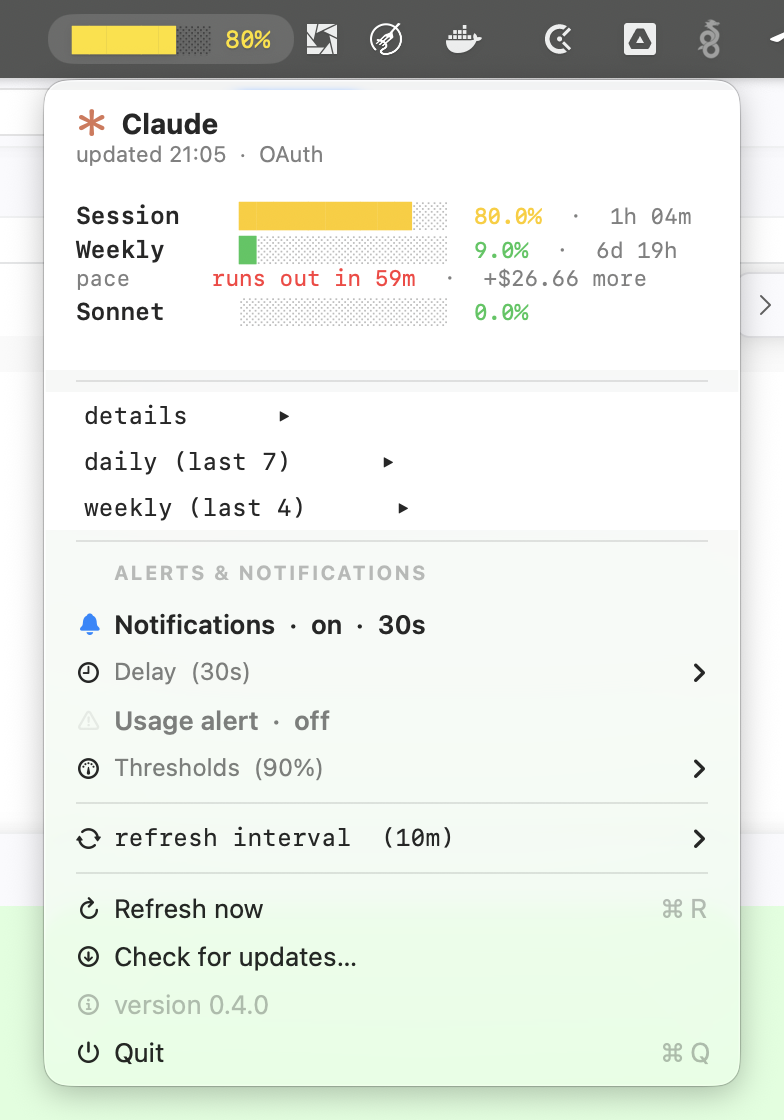
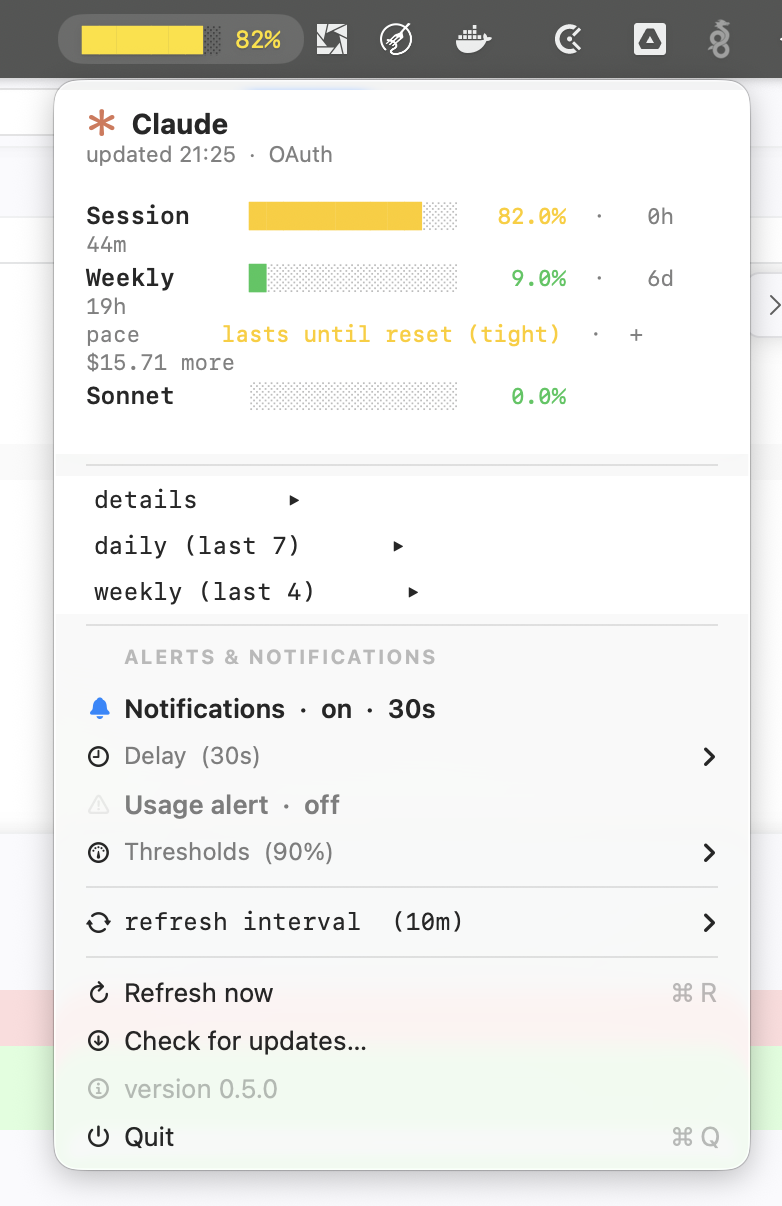
v0.5.1: column alignment + single-instance guard
- Bucket rows now line up cleanly: `%` is fixed at 5 chars (`81.0%` /
    ` 9.0%` / `100.0%`) and the reset countdown pads its lead value
    (`%2d`) so `0h 47m` / ` 6d 19h` share the same column edge with the
    `·` separator above. Previously the `·` shifted with %-digit count.
  - Added a singleton lock at `~/.cache/claude-usage-bar/widget.lock`
    via BSD `flock(LOCK_EX | LOCK_NB)`. A second launch (LaunchAgent +
    manual run, a self-update that didn't terminate the old process,
    or a double-click in Finder) now refuses cleanly with a message
    instead of stacking a second menu-bar icon. `--headless` bypasses
    the lock since it's a one-shot. The kernel auto-releases on process
    death, so stale lock files never wedge a future launch.
  - Refreshed screenshot to the aligned-column look.

diff --git a/main.swift b/main.swift
@@ -87,7 +87,7 @@ func blockTotalTokens(_ d: [String: Any]) -> Int {
 
 // Widget version, bumped manually each release. Compared against the
 // `tag_name` of the latest release fetched from the configured source.
-let WIDGET_VERSION = "0.5.0"
+let WIDGET_VERSION = "0.5.1"
 // Default update source. Overridable at runtime by ~/.cache/claude-usage-bar/update.json
 // — install.sh writes that file pointing at the distribution it came from
 // (GitHub Releases for the standalone repo, GitLab Releases for the
@@ -1214,17 +1214,18 @@ class App: NSObject, NSApplicationDelegate, NSMenuDelegate {
         return m
     }
 
-    /// "Xh YYm" for short windows, "Xd Yh" once the remaining time crosses
-    /// a day — keeps the right-aligned reset countdown compact.
+    /// "Xh YYm" for short windows, "Xd YYh" once the remaining time
+    /// crosses a day. Lead value padded to 2 chars so the column reads
+    /// as a flush right-edge across rows ("0h 47m" / " 6d 19h").
     func formatResetLong(_ minutes: Int) -> String {
         if minutes >= 60 * 24 {
             let d = minutes / (60 * 24)
             let h = (minutes % (60 * 24)) / 60
-            return "\(d)d \(h)h"
+            return String(format: "%2dd %02dh", d, h)
         }
         let h = minutes / 60
         let m = minutes % 60
-        return String(format: "%dh %02dm", h, m)
+        return String(format: "%2dh %02dm", h, m)
     }
 
     /// Legacy thin header used in setDetail's pre-data placeholder paths.
@@ -1272,7 +1273,9 @@ class App: NSObject, NSApplicationDelegate, NSMenuDelegate {
         // drawn pill, matches the original widget look.
         out.append(makeBar(pct: pct, width: 12))
         out.append(NSAttributedString(
-            string: String(format: "  %.1f%%", pct),
+            // %5.1f gives a fixed 5-char number column (" 9.0", "81.0", "100.0")
+            // so the `·` and reset time below align across rows.
+            string: String(format: "  %5.1f%%", pct),
             attributes: [.font: Self.monoSub, .foregroundColor: barColor(pct)]
         ))
         if showReset, let m = minutesUntil(iso: resetIso), m > 0 {
@@ -1443,6 +1446,38 @@ func runHeadless(asJSON: Bool) {
         }
         print(parts.joined(separator: " · "))
     }
+}
+
+// Single-instance guard. Without it you can easily end up with two
+// menu-bar icons (LaunchAgent + manual launch, or a self-update that
+// fails to terminate the previous process). Acquired BSD-style via
+// `flock(LOCK_EX | LOCK_NB)` — the kernel releases the lock when the
+// holding process dies, so a stale file never wedges future launches.
+let LOCK_PATH = "\(NSHomeDirectory())/.cache/claude-usage-bar/widget.lock"
+var singletonFD: Int32 = -1   // kept alive for the lifetime of the process
+
+func acquireSingletonLock() -> Bool {
+    let dir = (LOCK_PATH as NSString).deletingLastPathComponent
+    try? FileManager.default.createDirectory(
+        atPath: dir, withIntermediateDirectories: true, attributes: nil
+    )
+    let fd = open(LOCK_PATH, O_CREAT | O_RDWR, 0o644)
+    if fd < 0 { return false }
+    if flock(fd, LOCK_EX | LOCK_NB) != 0 {
+        close(fd)
+        return false
+    }
+    // Stash our pid for humans peeking at the lock file.
+    ftruncate(fd, 0)
+    let pid = "\(getpid())\n"
+    _ = pid.withCString { write(fd, $0, strlen($0)) }
+    singletonFD = fd
+    return true
+}
+
+if !acquireSingletonLock() {
+    fputs("claude-usage-bar: another instance is already running (lock at \(LOCK_PATH)). Exiting.\n", stderr)
+    exit(0)
 }
 
 let app = NSApplication.shared